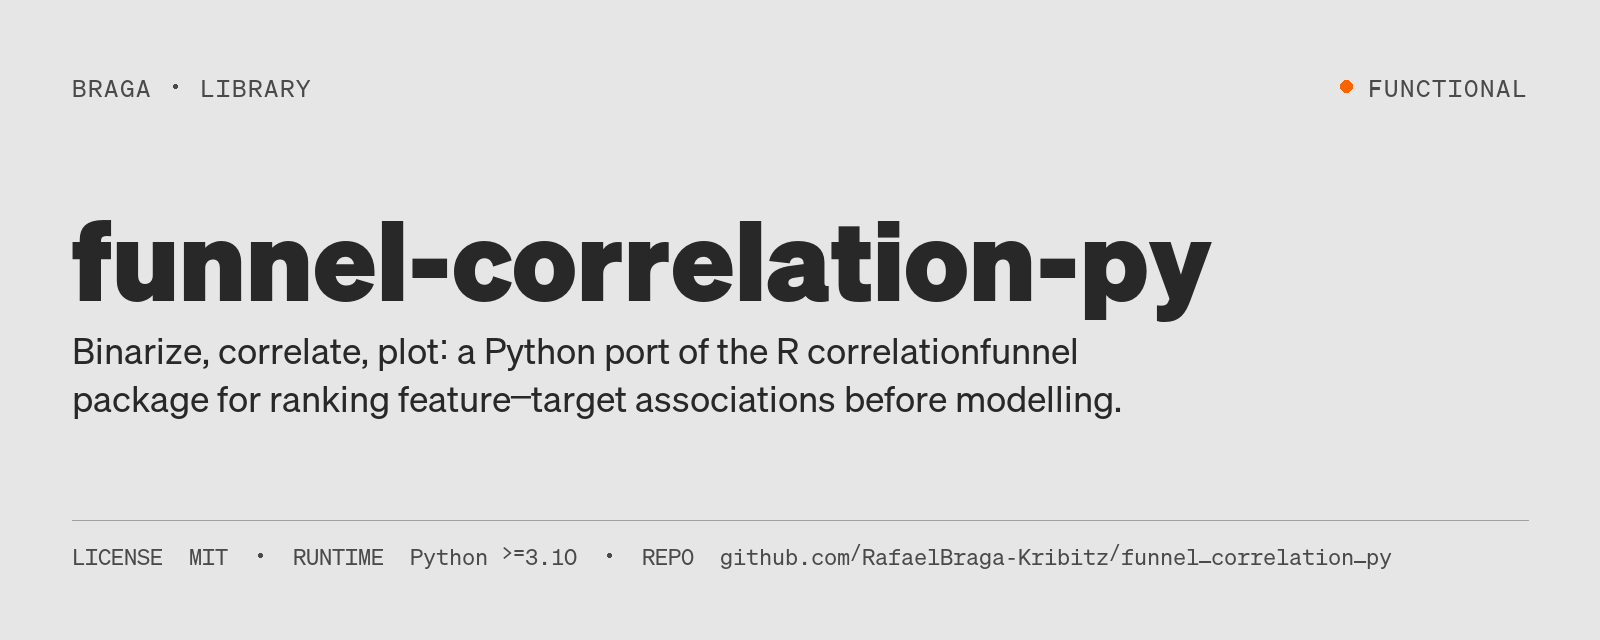
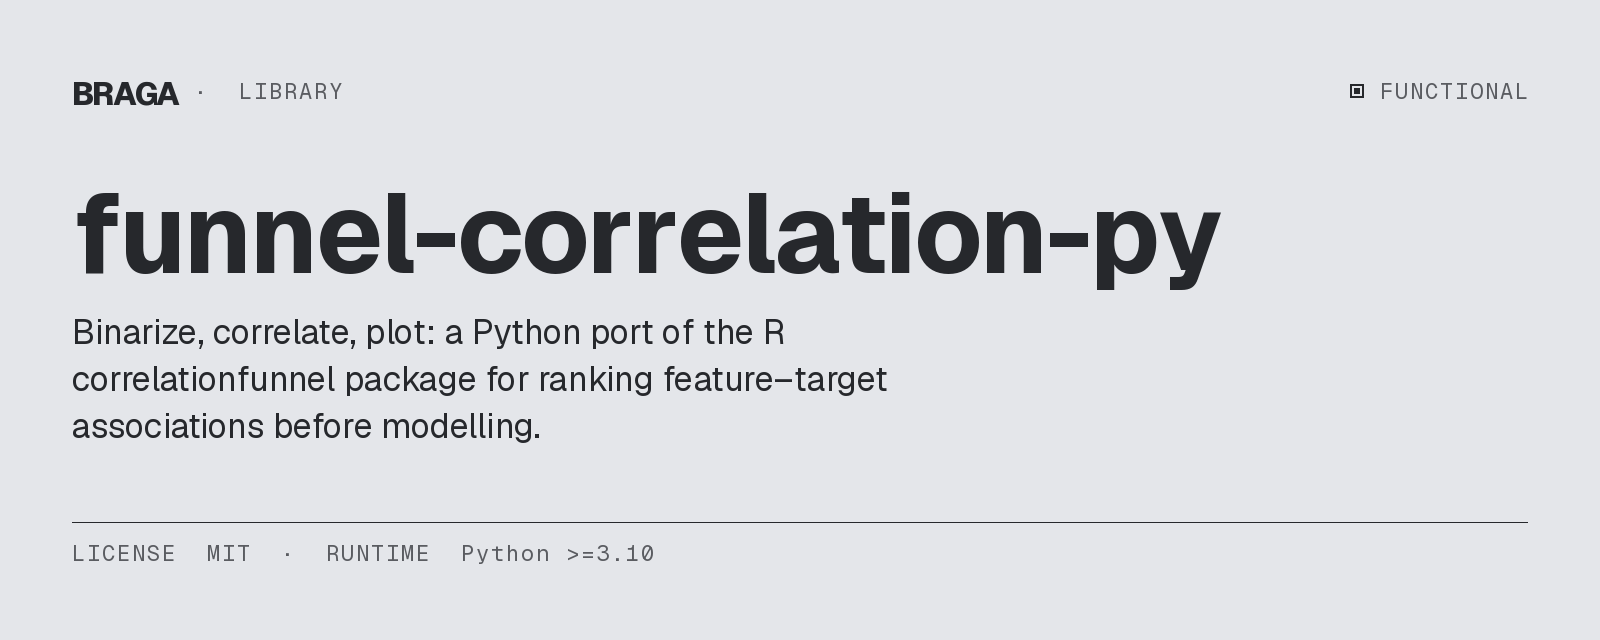
README on the Braga design system v2.1
Banner regenerated on design system v2.1 (BKribitz, status square, no
accent; D-051), shields badges in the neutrals (D-054), Mermaid diagrams
on the site's theme (D-052). Applied by braga-portfolio-docs
`python -m readme_quality fix`; the graph and the prose are unchanged.

Claude-Session: https://claude.ai/code/session_017JXfGqfFadubVauUqq2nZv

diff --git a/README.md b/README.md
@@ -2,9 +2,9 @@
 
 ![funnel-correlation-py: binarize, correlate, plot: a Python port of the R correlationfunnel package for ranking feature–target associations before modelling.](docs/assets/hero.png)
 
-[![Python 3.10](https://img.shields.io/badge/python-3.10-blue)](pyproject.toml)
-[![License: MIT](https://img.shields.io/badge/license-MIT-green)](LICENSE)
-[![Status: Functional](https://img.shields.io/badge/status-Functional-green)](#status)
+[![Python 3.10](https://img.shields.io/badge/python-3.10-5A5C61?labelColor=26282C)](pyproject.toml)
+[![License: MIT](https://img.shields.io/badge/license-MIT-5A5C61?labelColor=26282C)](LICENSE)
+[![Status: Functional](https://img.shields.io/badge/status-Functional-5A5C61?labelColor=26282C)](#status)
 
 **Status:** Functional · Python ≥3.10 · MIT
 
@@ -15,6 +15,33 @@ Mixed-type tables hide which feature levels actually move with a target. This li
 *Output of the Quick start code below on the bundled bank-marketing example. The strongest positive associations with a term deposit are the top quartile of call duration (`DURATION` bin 329_3025, r = 0.33) and a successful previous campaign (`POUTCOME` success, r = 0.28); `DEFAULT` sits at zero. The plot is the library's own `plot_correlation_funnel` result, not a hand-made illustration.*
 
 ```mermaid
+%%{init: {
+  "theme": "base",
+  "fontFamily": "BKribitz, system-ui, -apple-system, Segoe UI, Helvetica, Arial, sans-serif",
+  "themeVariables": {
+    "background": "#E4E6EA",
+    "primaryColor": "#DCDEE2",
+    "primaryTextColor": "#26282C",
+    "primaryBorderColor": "#26282C",
+    "secondaryColor": "#E4E6EA",
+    "secondaryTextColor": "#26282C",
+    "secondaryBorderColor": "#5A5C61",
+    "tertiaryColor": "#E4E6EA",
+    "tertiaryTextColor": "#26282C",
+    "tertiaryBorderColor": "#C2C4CA",
+    "lineColor": "#5A5C61",
+    "textColor": "#26282C",
+    "mainBkg": "#DCDEE2",
+    "nodeBorder": "#26282C",
+    "clusterBkg": "#E4E6EA",
+    "clusterBorder": "#C2C4CA",
+    "edgeLabelBackground": "#E4E6EA",
+    "titleColor": "#26282C",
+    "fontFamily": "BKribitz, system-ui, -apple-system, Segoe UI, Helvetica, Arial, sans-serif",
+    "fontSize": "14px"
+  },
+  "flowchart": { "curve": "linear", "htmlLabels": true, "padding": 8 }
+}}%%
 flowchart TD
   A["raw DataFrame"] --> B["binarize()"]
   B --> C["correlate()"]
